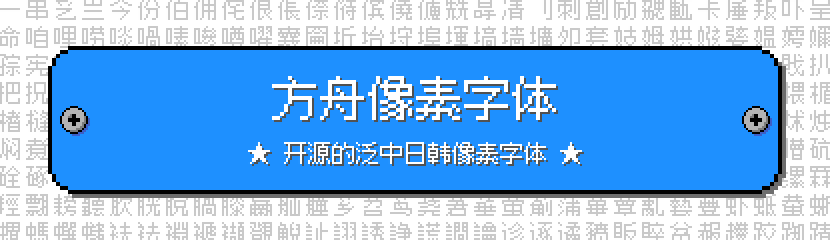
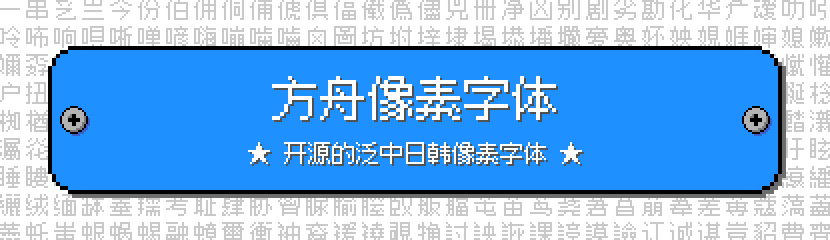
2025.08.11

Changed region(s): [[0.0, 0.4667, 1.0, 1.0], [0.0, 0.0, 1.0, 0.5542], [0.9337, 0.5833, 1.0, 0.7875]]

diff --git a/tools/configs/__init__.py b/tools/configs/__init__.py
@@ -1,7 +1,7 @@
 from tools.configs import path_define, options
 from tools.configs.font import FontConfig
 
-version = '2025.07.30'
+version = '2025.08.11'
 
 font_configs = {font_size: FontConfig.load(font_size) for font_size in options.font_sizes}
 

diff --git a/docs/info-12px-monospaced.md b/docs/info-12px-monospaced.md
@@ -4,8 +4,8 @@
 
 | 属性 | 值 |
 |---|---|
-| 版本号 | 2025.07.30 |
-| 字符总数 | 19970 |
+| 版本号 | 2025.08.11 |
+| 字符总数 | 20654 |
 
 ## Unicode 字符分布
 
@@ -42,16 +42,16 @@ Unicode 版本：16.0.0
 | 3130 ~ 318F | Hangul Compatibility Jamo | 谚文兼容字母 | 94 / 94 | 0 | 100.00% 🚩 |
 | 3200 ~ 32FF | Enclosed CJK Letters and Months | 包围中日韩字母与月份 | 92 / 255 | 163 | 36.08% 🚧 |
 | 3300 ~ 33FF | CJK Compatibility | 中日韩兼容 | 60 / 256 | 196 | 23.44% 🚧 |
-| 3400 ~ 4DBF | CJK Unified Ideographs Extension A | 中日韩统一表意文字扩充 A | 146 / 6592 | 6446 | 2.21% 🚧 |
-| 4E00 ~ 9FFF | CJK Unified Ideographs | 中日韩统一表意文字 | 17075 / 20992 | 3917 | 81.34% 🚧 |
+| 3400 ~ 4DBF | CJK Unified Ideographs Extension A | 中日韩统一表意文字扩充 A | 341 / 6592 | 6251 | 5.17% 🚧 |
+| 4E00 ~ 9FFF | CJK Unified Ideographs | 中日韩统一表意文字 | 17413 / 20992 | 3579 | 82.95% 🚧 |
 | FE10 ~ FE1F | Vertical Forms | 竖排形式 | 10 / 10 | 0 | 100.00% 🚩 |
 | FE30 ~ FE4F | CJK Compatibility Forms | 中日韩兼容形式 | 32 / 32 | 0 | 100.00% 🚩 |
 | FF00 ~ FFEF | Halfwidth and Fullwidth Forms | 半宽与全宽形式 | 173 / 225 | 52 | 76.89% 🚧 |
 | FFF0 ~ FFFF | Specials | 特殊 | 2 / 2 | 0 | 100.00% 🚩 |
-| 20000 ~ 2A6DF | CJK Unified Ideographs Extension B | 中日韩统一表意文字扩充 B | 37 / 42720 | 42683 | 0.09% 🚧 |
+| 20000 ~ 2A6DF | CJK Unified Ideographs Extension B | 中日韩统一表意文字扩充 B | 183 / 42720 | 42537 | 0.43% 🚧 |
 | 2A700 ~ 2B73F | CJK Unified Ideographs Extension C | 中日韩统一表意文字扩充 C | 23 / 4154 | 4131 | 0.55% 🚧 |
-| 2B740 ~ 2B81F | CJK Unified Ideographs Extension D | 中日韩统一表意文字扩充 D | 6 / 222 | 216 | 2.70% 🚧 |
-| 2B820 ~ 2CEAF | CJK Unified Ideographs Extension E | 中日韩统一表意文字扩充 E | 7 / 5762 | 5755 | 0.12% 🚧 |
+| 2B740 ~ 2B81F | CJK Unified Ideographs Extension D | 中日韩统一表意文字扩充 D | 8 / 222 | 214 | 3.60% 🚧 |
+| 2B820 ~ 2CEAF | CJK Unified Ideographs Extension E | 中日韩统一表意文字扩充 E | 10 / 5762 | 5752 | 0.17% 🚧 |
 | 2CEB0 ~ 2EBEF | CJK Unified Ideographs Extension F | 中日韩统一表意文字扩充 F | 2 / 7473 | 7471 | 0.03% 🚧 |
 | 30000 ~ 3134F | CJK Unified Ideographs Extension G | 中日韩统一表意文字扩充 G | 2 / 4939 | 4937 | 0.04% 🚧 |
 
@@ -61,10 +61,10 @@ Unicode 版本：16.0.0
 
 | 区块名称 | 完成数 | 缺失数 | 进度 |
 |---|---:|---:|---:|
-| 一级汉字 | 3442 / 3755 | 313 | 91.66% 🚧 |
-| 二级汉字 | 2534 / 3008 | 474 | 84.24% 🚧 |
+| 一级汉字 | 3476 / 3755 | 279 | 92.57% 🚧 |
+| 二级汉字 | 2576 / 3008 | 432 | 85.64% 🚧 |
 | 其他字符 | 651 / 682 | 31 | 95.45% 🚧 |
-| 总计 | 6627 / 7445 | 818 | 89.01% 🚧 |
+| 总计 | 6703 / 7445 | 742 | 90.03% 🚧 |
 
 ## Big5 字符分布
 
@@ -72,10 +72,10 @@ Unicode 版本：16.0.0
 
 | 区块名称 | 完成数 | 缺失数 | 进度 |
 |---|---:|---:|---:|
-| 常用汉字 | 4637 / 5401 | 764 | 85.85% 🚧 |
-| 次常用汉字 | 6028 / 7652 | 1624 | 78.78% 🚧 |
+| 常用汉字 | 4711 / 5401 | 690 | 87.22% 🚧 |
+| 次常用汉字 | 6174 / 7652 | 1478 | 80.68% 🚧 |
 | 其他字符 | 344 / 408 | 64 | 84.31% 🚧 |
-| 总计 | 11009 / 13461 | 2452 | 81.78% 🚧 |
+| 总计 | 11229 / 13461 | 2232 | 83.42% 🚧 |
 
 ## Shift-JIS 字符分布
 
@@ -86,8 +86,8 @@ Unicode 版本：16.0.0
 | 单字节-ASCII可打印字符 | 95 / 95 | 0 | 100.00% 🚩 |
 | 单字节-半角片假名 | 63 / 63 | 0 | 100.00% 🚩 |
 | 双字节-其他字符 | 492 / 524 | 32 | 93.89% 🚧 |
-| 双字节-汉字 | 5362 / 6355 | 993 | 84.37% 🚧 |
-| 总计 | 6012 / 7037 | 1025 | 85.43% 🚧 |
+| 双字节-汉字 | 5455 / 6355 | 900 | 85.84% 🚧 |
+| 总计 | 6105 / 7037 | 932 | 86.76% 🚧 |
 
 ## KS-X-1001 字符分布
 
@@ -96,6 +96,6 @@ Unicode 版本：16.0.0
 | 区块名称 | 完成数 | 缺失数 | 进度 |
 |---|---:|---:|---:|
 | 谚文音节 | 0 / 2350 | 2350 | 0.00% 🚧 |
-| 汉字 | 3972 / 4888 | 916 | 81.26% 🚧 |
+| 汉字 | 4026 / 4888 | 862 | 82.36% 🚧 |
 | 其他字符 | 786 / 988 | 202 | 79.55% 🚧 |
-| 总计 | 4758 / 8226 | 3468 | 57.84% 🚧 |
+| 总计 | 4812 / 8226 | 3414 | 58.50% 🚧 |

diff --git a/docs/info-12px-proportional.md b/docs/info-12px-proportional.md
@@ -4,8 +4,8 @@
 
 | 属性 | 值 |
 |---|---|
-| 版本号 | 2025.07.30 |
-| 字符总数 | 19970 |
+| 版本号 | 2025.08.11 |
+| 字符总数 | 20654 |
 
 ## Unicode 字符分布
 
@@ -42,16 +42,16 @@ Unicode 版本：16.0.0
 | 3130 ~ 318F | Hangul Compatibility Jamo | 谚文兼容字母 | 94 / 94 | 0 | 100.00% 🚩 |
 | 3200 ~ 32FF | Enclosed CJK Letters and Months | 包围中日韩字母与月份 | 92 / 255 | 163 | 36.08% 🚧 |
 | 3300 ~ 33FF | CJK Compatibility | 中日韩兼容 | 60 / 256 | 196 | 23.44% 🚧 |
-| 3400 ~ 4DBF | CJK Unified Ideographs Extension A | 中日韩统一表意文字扩充 A | 146 / 6592 | 6446 | 2.21% 🚧 |
-| 4E00 ~ 9FFF | CJK Unified Ideographs | 中日韩统一表意文字 | 17075 / 20992 | 3917 | 81.34% 🚧 |
+| 3400 ~ 4DBF | CJK Unified Ideographs Extension A | 中日韩统一表意文字扩充 A | 341 / 6592 | 6251 | 5.17% 🚧 |
+| 4E00 ~ 9FFF | CJK Unified Ideographs | 中日韩统一表意文字 | 17413 / 20992 | 3579 | 82.95% 🚧 |
 | FE10 ~ FE1F | Vertical Forms | 竖排形式 | 10 / 10 | 0 | 100.00% 🚩 |
 | FE30 ~ FE4F | CJK Compatibility Forms | 中日韩兼容形式 | 32 / 32 | 0 | 100.00% 🚩 |
 | FF00 ~ FFEF | Halfwidth and Fullwidth Forms | 半宽与全宽形式 | 173 / 225 | 52 | 76.89% 🚧 |
 | FFF0 ~ FFFF | Specials | 特殊 | 2 / 2 | 0 | 100.00% 🚩 |
-| 20000 ~ 2A6DF | CJK Unified Ideographs Extension B | 中日韩统一表意文字扩充 B | 37 / 42720 | 42683 | 0.09% 🚧 |
+| 20000 ~ 2A6DF | CJK Unified Ideographs Extension B | 中日韩统一表意文字扩充 B | 183 / 42720 | 42537 | 0.43% 🚧 |
 | 2A700 ~ 2B73F | CJK Unified Ideographs Extension C | 中日韩统一表意文字扩充 C | 23 / 4154 | 4131 | 0.55% 🚧 |
-| 2B740 ~ 2B81F | CJK Unified Ideographs Extension D | 中日韩统一表意文字扩充 D | 6 / 222 | 216 | 2.70% 🚧 |
-| 2B820 ~ 2CEAF | CJK Unified Ideographs Extension E | 中日韩统一表意文字扩充 E | 7 / 5762 | 5755 | 0.12% 🚧 |
+| 2B740 ~ 2B81F | CJK Unified Ideographs Extension D | 中日韩统一表意文字扩充 D | 8 / 222 | 214 | 3.60% 🚧 |
+| 2B820 ~ 2CEAF | CJK Unified Ideographs Extension E | 中日韩统一表意文字扩充 E | 10 / 5762 | 5752 | 0.17% 🚧 |
 | 2CEB0 ~ 2EBEF | CJK Unified Ideographs Extension F | 中日韩统一表意文字扩充 F | 2 / 7473 | 7471 | 0.03% 🚧 |
 | 30000 ~ 3134F | CJK Unified Ideographs Extension G | 中日韩统一表意文字扩充 G | 2 / 4939 | 4937 | 0.04% 🚧 |
 
@@ -61,10 +61,10 @@ Unicode 版本：16.0.0
 
 | 区块名称 | 完成数 | 缺失数 | 进度 |
 |---|---:|---:|---:|
-| 一级汉字 | 3442 / 3755 | 313 | 91.66% 🚧 |
-| 二级汉字 | 2534 / 3008 | 474 | 84.24% 🚧 |
+| 一级汉字 | 3476 / 3755 | 279 | 92.57% 🚧 |
+| 二级汉字 | 2576 / 3008 | 432 | 85.64% 🚧 |
 | 其他字符 | 651 / 682 | 31 | 95.45% 🚧 |
-| 总计 | 6627 / 7445 | 818 | 89.01% 🚧 |
+| 总计 | 6703 / 7445 | 742 | 90.03% 🚧 |
 
 ## Big5 字符分布
 
@@ -72,10 +72,10 @@ Unicode 版本：16.0.0
 
 | 区块名称 | 完成数 | 缺失数 | 进度 |
 |---|---:|---:|---:|
-| 常用汉字 | 4637 / 5401 | 764 | 85.85% 🚧 |
-| 次常用汉字 | 6028 / 7652 | 1624 | 78.78% 🚧 |
+| 常用汉字 | 4711 / 5401 | 690 | 87.22% 🚧 |
+| 次常用汉字 | 6174 / 7652 | 1478 | 80.68% 🚧 |
 | 其他字符 | 344 / 408 | 64 | 84.31% 🚧 |
-| 总计 | 11009 / 13461 | 2452 | 81.78% 🚧 |
+| 总计 | 11229 / 13461 | 2232 | 83.42% 🚧 |
 
 ## Shift-JIS 字符分布
 
@@ -86,8 +86,8 @@ Unicode 版本：16.0.0
 | 单字节-ASCII可打印字符 | 95 / 95 | 0 | 100.00% 🚩 |
 | 单字节-半角片假名 | 63 / 63 | 0 | 100.00% 🚩 |
 | 双字节-其他字符 | 492 / 524 | 32 | 93.89% 🚧 |
-| 双字节-汉字 | 5362 / 6355 | 993 | 84.37% 🚧 |
-| 总计 | 6012 / 7037 | 1025 | 85.43% 🚧 |
+| 双字节-汉字 | 5455 / 6355 | 900 | 85.84% 🚧 |
+| 总计 | 6105 / 7037 | 932 | 86.76% 🚧 |
 
 ## KS-X-1001 字符分布
 
@@ -96,6 +96,6 @@ Unicode 版本：16.0.0
 | 区块名称 | 完成数 | 缺失数 | 进度 |
 |---|---:|---:|---:|
 | 谚文音节 | 0 / 2350 | 2350 | 0.00% 🚧 |
-| 汉字 | 3972 / 4888 | 916 | 81.26% 🚧 |
+| 汉字 | 4026 / 4888 | 862 | 82.36% 🚧 |
 | 其他字符 | 786 / 988 | 202 | 79.55% 🚧 |
-| 总计 | 4758 / 8226 | 3468 | 57.84% 🚧 |
+| 总计 | 4812 / 8226 | 3414 | 58.50% 🚧 |

diff --git a/docs/info-10px-monospaced.md b/docs/info-10px-monospaced.md
@@ -4,7 +4,7 @@
 
 | 属性 | 值 |
 |---|---|
-| 版本号 | 2025.07.30 |
+| 版本号 | 2025.08.11 |
 | 字符总数 | 3252 |
 
 ## Unicode 字符分布

diff --git a/docs/info-10px-proportional.md b/docs/info-10px-proportional.md
@@ -4,7 +4,7 @@
 
 | 属性 | 值 |
 |---|---|
-| 版本号 | 2025.07.30 |
+| 版本号 | 2025.08.11 |
 | 字符总数 | 3401 |
 
 ## Unicode 字符分布

diff --git a/docs/info-16px-monospaced.md b/docs/info-16px-monospaced.md
@@ -4,7 +4,7 @@
 
 | 属性 | 值 |
 |---|---|
-| 版本号 | 2025.07.30 |
+| 版本号 | 2025.08.11 |
 | 字符总数 | 2387 |
 
 ## Unicode 字符分布

diff --git a/docs/info-16px-proportional.md b/docs/info-16px-proportional.md
@@ -4,7 +4,7 @@
 
 | 属性 | 值 |
 |---|---|
-| 版本号 | 2025.07.30 |
+| 版本号 | 2025.08.11 |
 | 字符总数 | 2387 |
 
 ## Unicode 字符分布
